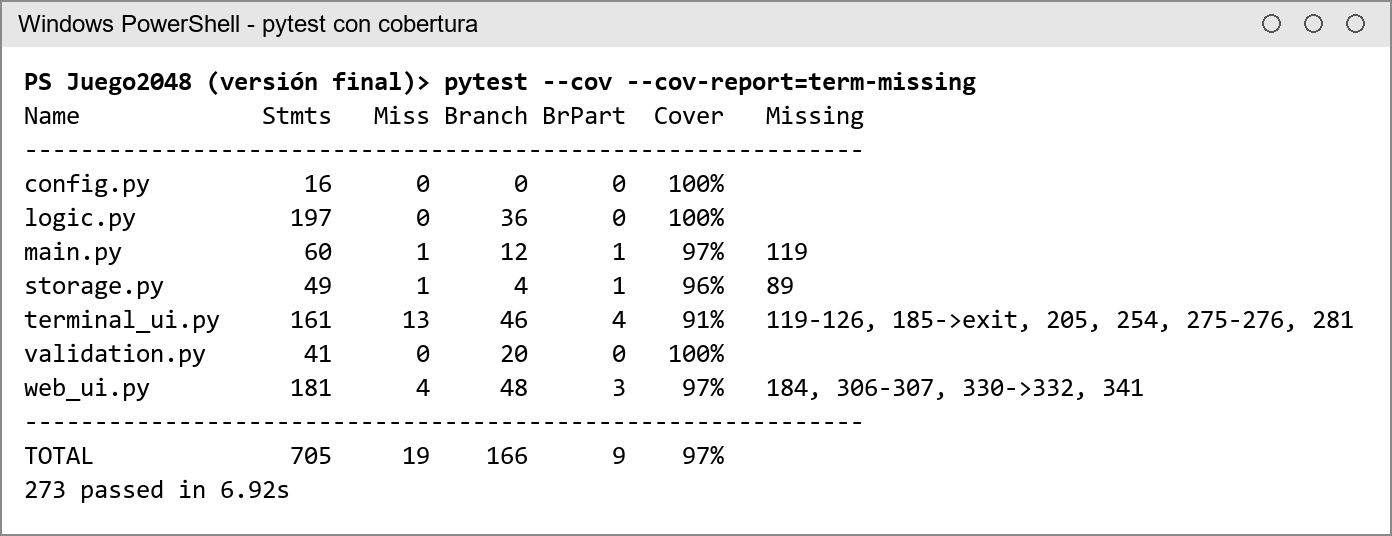
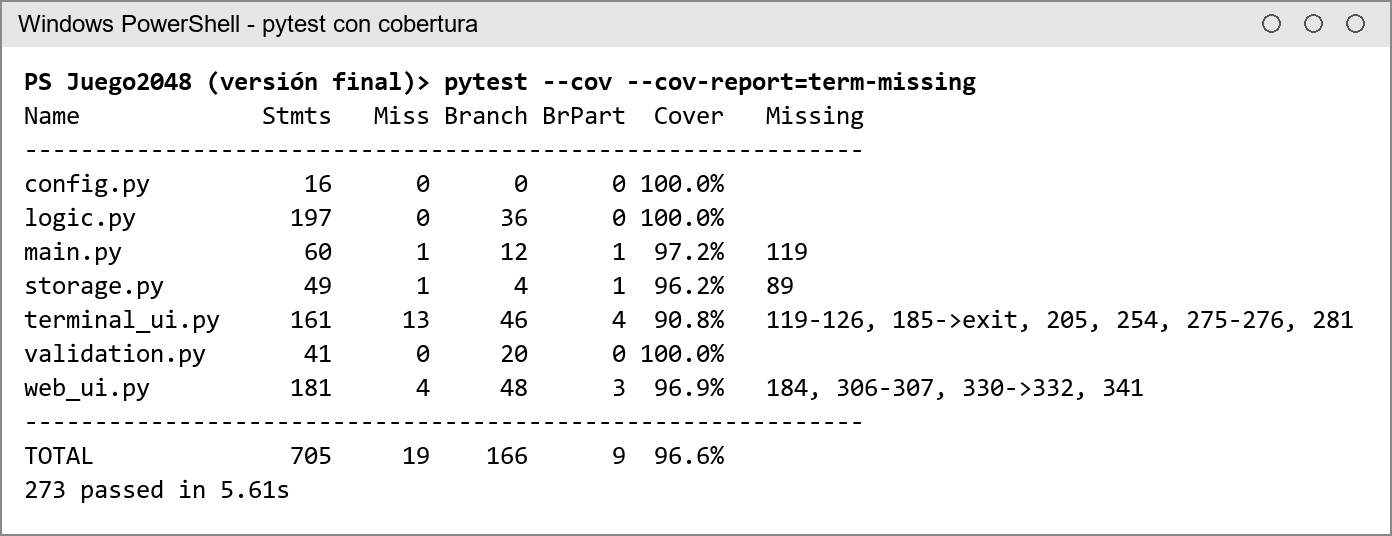
docs: evidencia final con cobertura de un decimal y capturas actualizadas
La evidencia de ci_local.txt se había generado antes de excluir ci_local.py de la cobertura (93,3 %). Se regenera con precisión de un decimal: 96,6 % de sentencias y ramas.

diff --git a/docs/INFORME_TECNICO.md b/docs/INFORME_TECNICO.md
@@ -14,8 +14,8 @@ integración continua.
 | Complejidad ciclomática de move() | 13 | 3 |
 | Funciones con complejidad mayor o igual que 10 | 5 | 0 |
 | Pruebas automatizadas | 12 | 283 (273 Python + 10 JavaScript) |
-| Cobertura de sentencias y ramas | 40 % | 97 % |
-| Cobertura de web_ui.py y terminal_ui.py | 0 % y 0 % | 97 % y 91 % |
+| Cobertura de sentencias y ramas | 40 % | 96,6 % |
+| Cobertura de web_ui.py y terminal_ui.py | 0 % y 0 % | 96,9 % y 90,8 % |
 | Fichas con contraste menor que 3:1 | 8 de 11 | 0 de 11 |
 | Fallos registrados y corregidos | — | 23 de 23 |
 

diff --git a/README.md b/README.md
@@ -102,7 +102,7 @@ bandit -r . -x ./tests,./docs           # análisis de seguridad
 | Hallazgos de bandit | 4 | 0 |
 | Complejidad ciclomática de `move()` | 13 | 3 |
 | Pruebas automatizadas | 12 | 283 (273 Python + 10 JavaScript) |
-| Cobertura de sentencias y ramas | 40 % | 97 % |
+| Cobertura de sentencias y ramas | 40 % | 96,6 % |
 
 El flujo [`.github/workflows/ci.yml`](.github/workflows/ci.yml) ejecuta los mismos
 pasos en Ubuntu y Windows con Python 3.10 y 3.12 en cada *push* o *pull request*.
